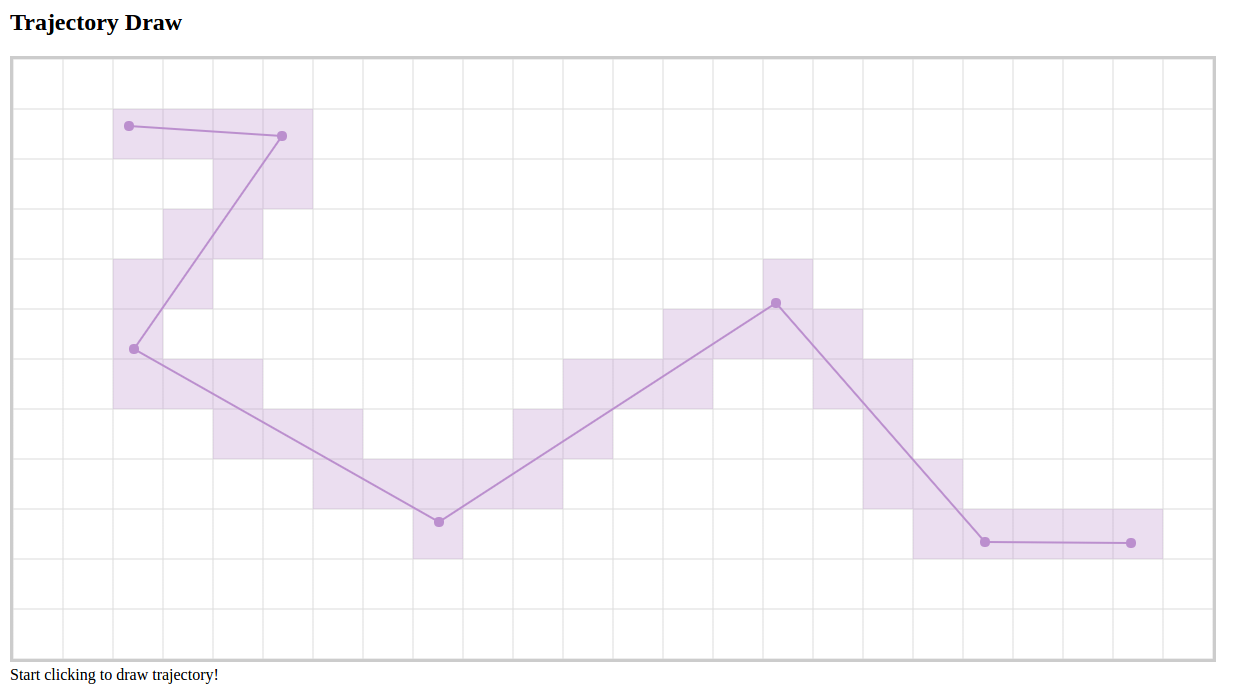
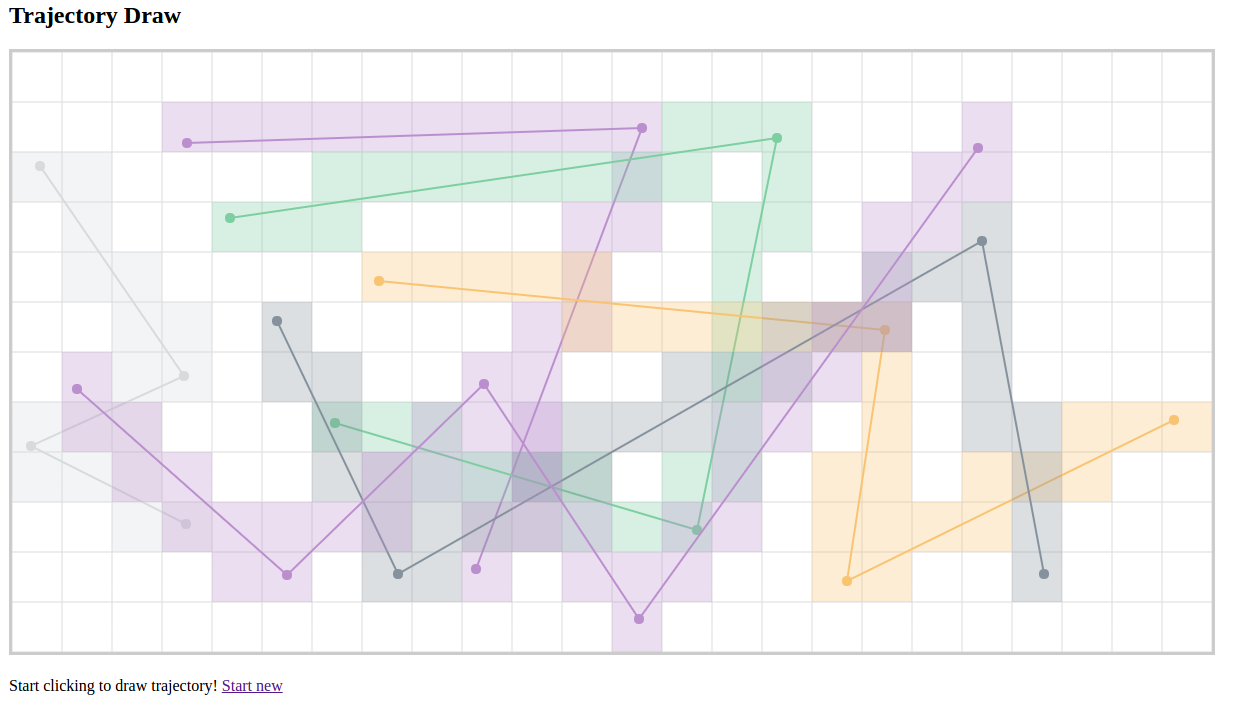
Multiple trajectories can be drawn

diff --git a/static/js/main.js b/static/js/main.js
@@ -11,36 +11,44 @@ let gridsize = 50;
 let pointRadius = 5;
 let lineWidth = 2;
 
-let prevPoint = null;
-let colors = [ "rgb(187, 143, 206)" ];
-let grid_colors = [ "rgba(187, 143, 206, .3)" ]
+let colors_rgb = [ [187, 143, 206], [125, 206, 160], [248, 196, 113], [215, 219, 221], [133, 146, 158] ];
+let grid_color_alpha = 0.3;
 
-
-// Draw primary grid
-drawGrid(gridsize, GRID_PRIMARY);
-
-let trajectory = [];
+let currentTrajectoryIdx = 0;
+let trajectories = [ [] ];
 let markedCells = [];
 
+// Draw primary grid
+drawGrid(gridsize, "#ddd", GRID_PRIMARY);
+
+
 canvas.onclick = function(evt, target){
+
+    let trajectory = trajectories[currentTrajectoryIdx];
+    let colorIdx = currentTrajectoryIdx % colors_rgb.length;
+    let color = "rgb("+colors_rgb[colorIdx][0]+","+colors_rgb[colorIdx][1]+","+colors_rgb[colorIdx][2]+")";
+    let grid_fill_color = "rgba("+colors_rgb[colorIdx][0]+","+colors_rgb[colorIdx][1]+","+colors_rgb[colorIdx][2]+","+grid_color_alpha+")";
+
     let point = { 
         x: evt.offsetX, 
         y: evt.offsetY,
         cellX: Math.floor(evt.offsetX / gridsize),
         cellY: Math.floor(evt.offsetY / gridsize)
     };
+    
+
+
     trajectory.push(point);
 
     // Draw a point
-    drawPoint(point, colors[0]);
+    drawPoint(point, color);
     
     // If it's not the first point, draw a line from the previous one and fill the cells under it
     if(trajectory.length > 1){
-        drawLine(trajectory[trajectory.length-2], trajectory[trajectory.length-1], colors[0]);
+        drawLine(trajectory[trajectory.length-2], trajectory[trajectory.length-1], color);
         
         // Get all grid cells that are crossed by the line 
         let gridCells = markPoints(gridsize, trajectory[trajectory.length-2], trajectory[trajectory.length-1]);
-        //console.log("Marked cells: ", gridCells);
 
         // Mark the new cells (not crossed by previous lines)
         for(var idx in gridCells){
@@ -52,10 +60,17 @@ canvas.onclick = function(evt, target){
                     x: gridCells[idx].cellX * (gridsize),
                     y: gridCells[idx].cellY * (gridsize)
                 }
-                drawRect(gridCoords, gridsize, grid_colors[0]);
+                drawRect(gridCoords, gridsize, grid_fill_color);
             }
         }
     }
+}
+
+
+function startNewTrajectory(){
+    ++currentTrajectoryIdx;
+    trajectories.push([]);
+    markedCells = [];
 }
 
 // Checks if a cell is already marked
@@ -92,13 +107,13 @@ function drawPoint(pointCoords, color){
     ctx.fill();
 }
 
-function drawGrid(gridsize, which){
+function drawGrid(gridsize, color, which){
 
     if(which == undefined){ which = GRID_PRIMARY; }
 
     let gridOffset = (which == 1) ? 0 : gridsize/2;
 
-    ctx.strokeStyle = "#ddd";
+    ctx.strokeStyle = color;
 
     if(which == GRID_SECONDARY){
         ctx.setLineDash([10, 10]);

diff --git a/index.html b/index.html
@@ -8,7 +8,11 @@
 <div id="wrapper">
     <h2>Trajectory Draw</h2>
     <canvas id="canvas" width="1200" height="600"></canvas>
+    <br/>
+
     <br/>Start clicking to draw trajectory!
+
+    <a href="#" onclick="startNewTrajectory()">Start new</a>
 
 </div>
     <script type="text/javascript" src="static/js/grid_traversal.js"></script>
